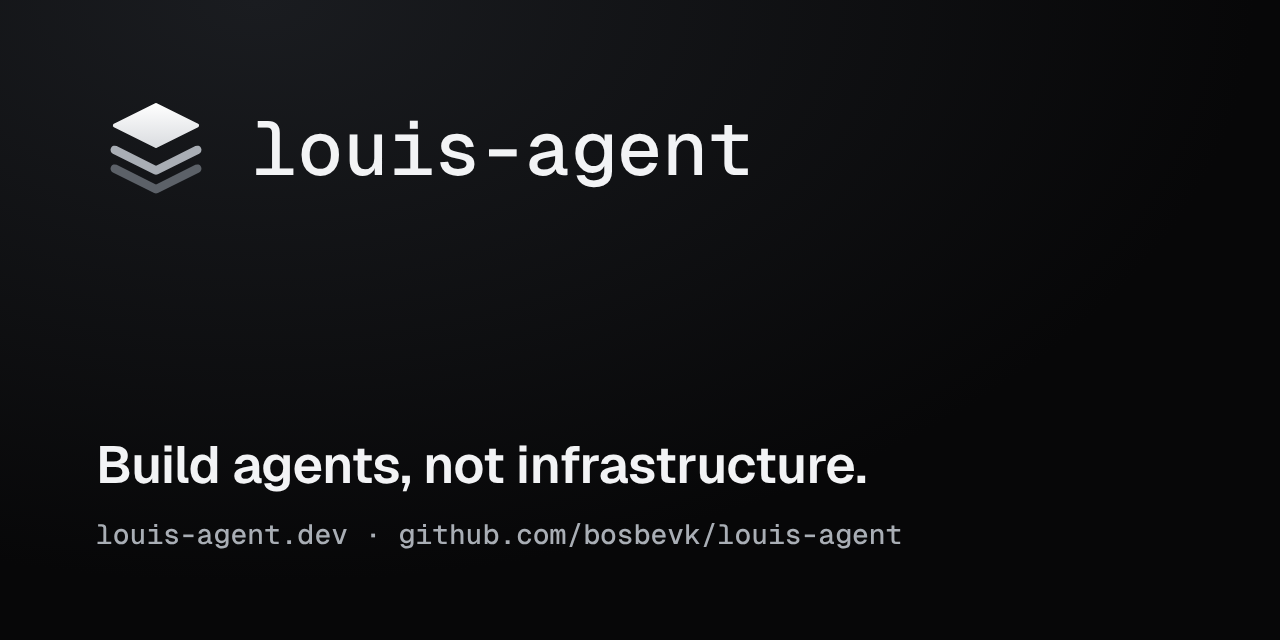
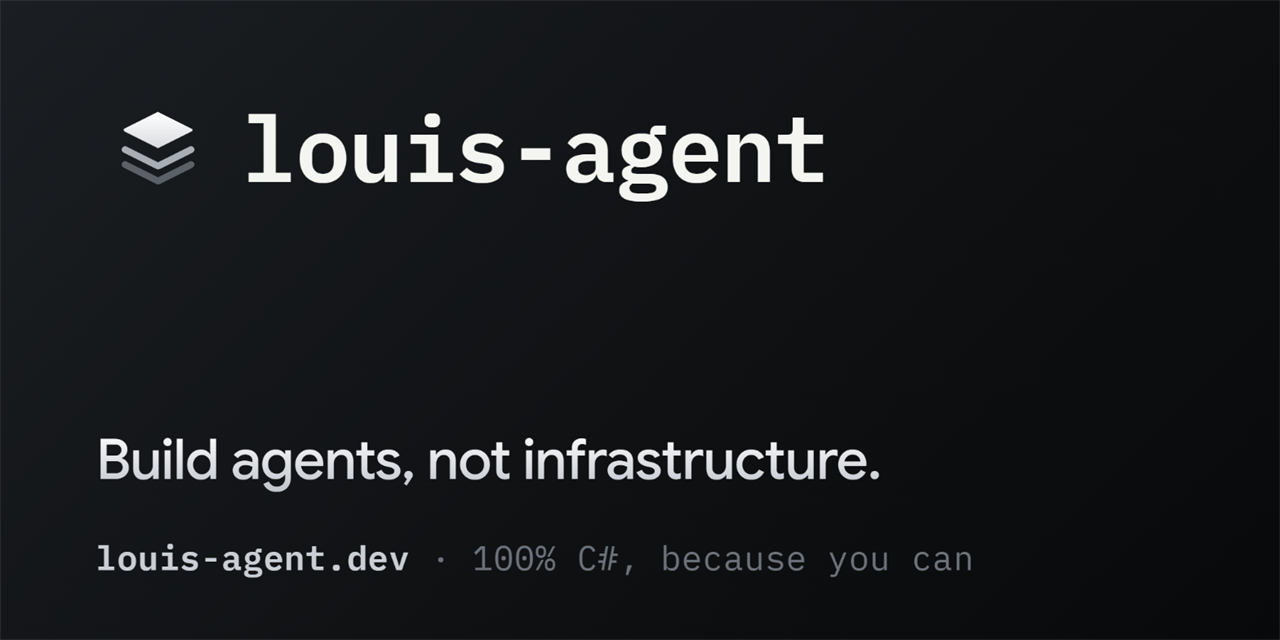
fix(fx99): the social card shows the website's address and the slogan, not the repository's
A Facebook post's preview showed the card with github.com/bosbevk/louis-agent, a private repository
nobody can open (Louis: "this card must also show the website url"). The card was made when the
repository was public. The new card: the lockup, "Build agents, not infrastructure.", then
louis-agent.dev and "100% C#, because you can", in the site's fonts, rendered from an HTML page in
Chrome and scaled to 1280 by 640; the same picture in the brand folder and the site's wwwroot.

diff --git a/src/docs/fixes/README.md b/src/docs/fixes/README.md
@@ -64,6 +64,7 @@ The symptom is as it was seen (the error, where there was one), so a search for 
 | FX87 | The site's release carries the guide's mail key: `deploy.ps1 secrets -App louis-agent-app` copies `RESEND_API_KEY` into the vault as `resend-api-key`, and `release` puts its secret and env line in the app's yaml (at its `# WHEN SET` marker) only once the vault holds it, so the key needs no hand edit | done | deploy: `deploy.ps1`, `louis-agent-app.yaml`, its README | The guide's SendLead answered "the system couldn't send the mail just now" on louis-agent.dev (Louis's screenshot, 2026-11-08: "what do I need to set") | The README said `secrets` copies the key, but `Get-Secrets` never read `RESEND_API_KEY` and `update` never named `resend-api-key`, so putting FX86's two lines back would have failed the release again | the PR's commit | — |
 | FX96 | A developer who asks the guide for code gets code: the API guide holds the API's whole program as a C# listing the docs tool reads back, and the voice says to write the program a developer would paste, with its settings, never a path or "copy the real file" | done | docs: `guides/change-the-api.md`; identity: `louis-agent-expert/voice.md`; test: `GuideListingsTests` | Asked for code to start the API, the guide listed doc paths and said to copy the real file, which nobody outside the repository can (Louis's screenshots, 2026-11-08: "people do not have access to the source, the agent should have outputted a C# styled program.cs which you can copy paste") | The docs described the program's order but held no listing, and the voice had no rule for a developer's ask for code | the PR's commit | — |
 | FX98 | The chat follows the answer to its end: the message list scrolls once more on the draw after the stream ends, the one that adds the cost line and takes the caret away | done | web: `Components/Chat/MessageList.razor.cs`; test: `MessageListTests` | After a turn the widget's chat stopped a line short of the bottom, the cost line half hidden (Louis's screenshot, 2026-11-08: "the chat does not scroll fully to the bottom, can get irritating") | The list scrolled while the turn streamed and on a new turn, and the closing draw came after streaming had stopped | the PR's commit | — |
+| FX99 | The social card carries the website's address and the slogan, not the repository's: the lockup, the line, then louis-agent.dev and "100% C#, because you can", the same picture in the brand folder and the site | done | site: `wwwroot/social-card.png`; brand: `src/docs/brand/social-card.png` | A Facebook post's preview showed the card with github.com/bosbevk/louis-agent, a private repository nobody can open (Louis, 2026-11-08: "this card must also show the website url") | The card was made when the repository was public (F109.4 made it private) | the PR's commit | — |
 | FX95 | The guide knows its own leads: asked whether an agent can bring in leads it says yes and shows it, the framework's leads pack that it uses itself, and a mailbox or a form read for leads as a custom agent on the same pack | done | identity: `louis-agent-expert/voice.md` | Asked about leads, the guide said it found no finished example in the docs and would rather not promise it, while it is itself the lead-taking agent on a leads pack (Louis, 2026-11-08: "it has leads???", "no leads") | The voice told the guide how to send a lead, not that leads are a thing the framework does | the PR's commit | — |
 | FX94 | A lead goes to Louis's Gmail address: `LEADS_TO` in the release's yaml, the compose file and the run profile | done | deploy: `louis-agent-app.yaml`; demo: `docker-compose.yml`, `launchSettings.json` | Outlook (live.com) first bounced the guide's lead mails for want of a DMARC record and then, with the record in place, accepted them and dropped them without a trace, in no folder (Louis, 2026-11-08: "not in junk not anywhere") | A new sending domain has no reputation with Outlook, which accepts and discards; Gmail delivers DKIM-signed mail from a verified domain the first time | the PR's commit | — |
 | FX93 | The deploy runs on the merge itself and CI on pull requests only: the deploy workflow triggers on a push to main instead of on a CI run, and CI drops its push trigger, so a merge reaches the sites in the time the image takes to build | done | `.github/workflows/ci.yml`, `deploy-puls.yml`; ADR 0097 amended | A merge waited for CI to run again on main before the deploy started, a quarter of an hour for tests the pull request had already passed with main merged in (Louis, 2026-11-08: "we do not need a build and test on deploy, we only need it pull request build and test") | ADR 0097 chose the wait when pull requests were merged without CI | the PR's commit | — |

diff --git a/src/docs/work-log.md b/src/docs/work-log.md
@@ -13,7 +13,7 @@
 | Kind | Done | Open in the TODO |
 |---|---|---|
 | Features (`F`) | 76 | 74 |
-| Fixes (`FX`) | 89 | 5 |
+| Fixes (`FX`) | 90 | 5 |
 | Cleanups (`CL`) | 27 | 26 |
 
 A child (`F59.3`) counts as its own row. "Open" is the TODO's table, one row per item.
@@ -210,13 +210,14 @@ A child (`F59.3`) counts as its own row. "Open" is the TODO's table, one row per
 | F2 | 2026-10-10 | Prices and cost |
 | F1 | 2026-10-10 | Usage ledger |
 
-## Fixes (89 done)
+## Fixes (90 done)
 
 | Id | When | What |
 |---|---|---|
 | FX92 | 2026-11-08 | The slogan reads "100% C#, because you can" |
 | FX91 | 2026-11-08 | The band and the guide say what drives the work: a stoic and Kierkegaard outlook, meaning and purpose, a startup of one; a described job is a custom agent to offer, and the agent can run where the customer is |
 | FX90 | 2026-11-08 | The guide opens on every copy of the site: the run profile and the compose file carry the guide's settings as the release does |
+| FX99 | 2026-11-08 | The social card shows the website's address and the slogan, no longer the private repository's |
 | FX98 | 2026-11-08 | The chat follows the answer to its end: one more scroll on the draw after the stream ends |
 | FX96 | 2026-11-08 | A developer who asks the guide for code gets a whole Program.cs in a C# block: the API guide holds the listing, the voice says to write it |
 | FX95 | 2026-11-08 | The guide knows its own leads: yes, shown, the leads pack it uses itself, a mailbox read for leads as a custom agent |

diff --git a/src/docs/brand/README.md b/src/docs/brand/README.md
@@ -20,7 +20,7 @@ below it are strokes in two grays, lighter going up.
 | [mark-light.svg](mark-light.svg) | The mark on a light ground: solid Ink `#15171a`, no gradient | Docs, print, anything light |
 | [nuget-icon.png](nuget-icon.png) | 128 × 128, the mark on the Floor colour | The NuGet packages' `PackageIcon`, when they ship (F74) |
 | [avatar.png](avatar.png) | 512 × 512, the mark on the Floor colour | The GitHub avatar, any square profile picture |
-| [social-card.png](social-card.png) | 1280 × 640, the lockup and the line | GitHub's *Settings → Social preview*, link previews |
+| [social-card.png](social-card.png) | 1280 × 640, the lockup, the line, the site's address and the slogan (FX99: no repository address, the repository is private) | The site's `og:image`, link previews |
 
 The coding agent's web app (the site) shows the lockup in its header (F110): its own copy of the mark,
 `demos/louis-agent/web/louis-agent.code-review/wwwroot/brand/mark.svg`, the drawing alone without the export's
